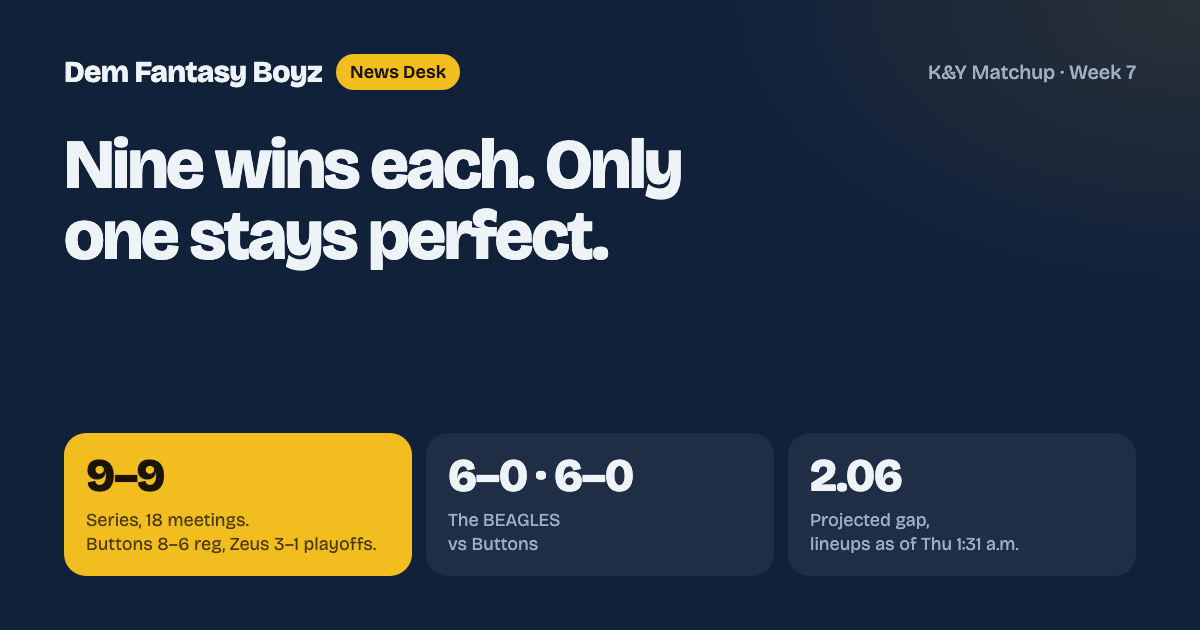
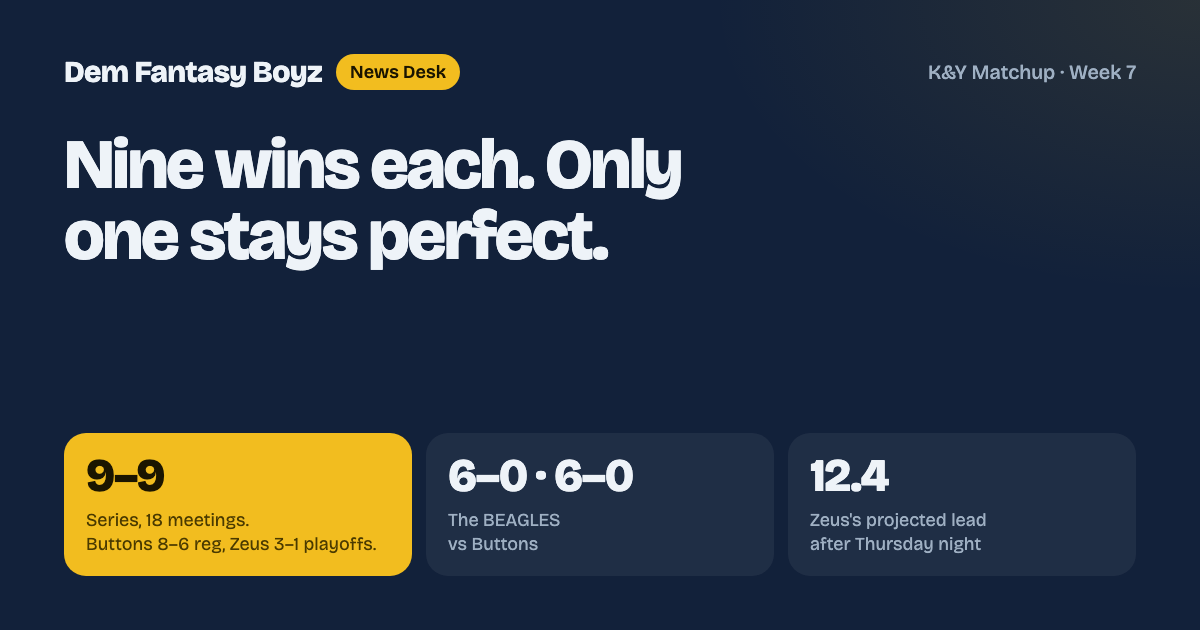
News desk: Week 7 K&Y, update for lineup changes and Thursday night

Changed region(s): [[0.6783, 0.8143, 0.8633, 0.8746], [0.6783, 0.7238, 0.7708, 0.7841]]

diff --git a/dfb/wk7-ky-matchup.html b/dfb/wk7-ky-matchup.html
@@ -5,16 +5,16 @@
 <meta name="viewport" content="width=device-width, initial-scale=1">
 <meta name="robots" content="noindex">
 <title>Nine Wins Each. Only One Stays Perfect. &mdash; Dem Fantasy Boyz</title>
-<meta name="description" content="K&amp;Y Matchup of the Week: The BEAGLES vs Benjamin's Buttons, both 6-0, 2.06 points apart as set. They have met 18 times and each has won nine.">
+<meta name="description" content="K&amp;Y Matchup of the Week: The BEAGLES vs Benjamin's Buttons, both 6-0. After Thursday night the projections favor Zeus by 12.4. They have met 18 times and each has won nine.">
 <meta property="og:type" content="article">
 <meta property="og:title" content="Nine Wins Each. Only One Stays Perfect.">
-<meta property="og:description" content="K&amp;Y Matchup of the Week: The BEAGLES vs Benjamin's Buttons, both 6-0, 2.06 points apart as set. They have met 18 times and each has won nine.">
+<meta property="og:description" content="K&amp;Y Matchup of the Week: The BEAGLES vs Benjamin's Buttons, both 6-0. After Thursday night the projections favor Zeus by 12.4. They have met 18 times and each has won nine.">
 <meta property="og:url" content="https://goonscrubbih.github.io/dfb/wk7-ky-matchup.html">
-<meta property="og:image" content="https://goonscrubbih.github.io/dfb/img/wk7-ky-matchup.png?v=1">
+<meta property="og:image" content="https://goonscrubbih.github.io/dfb/img/wk7-ky-matchup.png?v=2">
 <meta name="twitter:card" content="summary_large_image">
 <meta name="twitter:title" content="Nine Wins Each. Only One Stays Perfect.">
-<meta name="twitter:description" content="K&amp;Y Matchup of the Week: The BEAGLES vs Benjamin's Buttons, both 6-0, 2.06 points apart as set. They have met 18 times and each has won nine.">
-<meta name="twitter:image" content="https://goonscrubbih.github.io/dfb/img/wk7-ky-matchup.png?v=1">
+<meta name="twitter:description" content="K&amp;Y Matchup of the Week: The BEAGLES vs Benjamin's Buttons, both 6-0. After Thursday night the projections favor Zeus by 12.4. They have met 18 times and each has won nine.">
+<meta name="twitter:image" content="https://goonscrubbih.github.io/dfb/img/wk7-ky-matchup.png?v=2">
 <meta name="theme-color" content="#EDF1F5" media="(prefers-color-scheme: light)">
 <meta name="theme-color" content="#0E1622" media="(prefers-color-scheme: dark)">
 <link rel="preconnect" href="https://fonts.googleapis.com">
@@ -34,7 +34,7 @@
 <div class="hed">
   <span class="chip flag">K&amp;Y Matchup of the Week &middot; Week 7</span>
   <h1>Nine Wins Each. Only One Stays Perfect.</h1>
-  <p class="dek">The BEAGLES and Benjamin's Buttons are both 6&ndash;0, and the projections have them <em>2.06 points apart</em>. They have met 18 times since 2016. Each has won nine. Buttons owns the regular season. Zeus owns the playoffs.</p>
+  <p class="dek">The BEAGLES and Benjamin's Buttons are both 6&ndash;0, and after Thursday night the projections favor Zeus by <em>12.4 points</em>. They have met 18 times since 2016. Each has won nine. Buttons owns the regular season. Zeus owns the playoffs.</p>
   <div class="by"><b>Oct 22, 2026</b><span>The BEAGLES (6&ndash;0) vs Benjamin's Buttons (6&ndash;0)</span><span>Week 7 preview</span></div>
 </div>
 
@@ -44,9 +44,9 @@
 
 <div class="stats">
   <div class="stat flag"><b>9&ndash;9</b><span>all-time series, 18 meetings since 2016</span></div>
-  <div class="stat"><b>2.06</b><span>projected gap as set, 137.07&ndash;135.01</span></div>
+  <div class="stat"><b>12.4</b><span>Zeus's projected lead after Thursday night, 146.96&ndash;134.55. Buttons led by 2.06 before it.</span></div>
   <div class="stat"><b>3&ndash;1</b><span>Zeus in playoff meetings, including the 2017 final</span></div>
-  <div class="stat"><b>16 / 10</b><span>roster moves this season, Buttons and Zeus</span></div>
+  <div class="stat"><b>17 / 10</b><span>roster moves this season, Buttons and Zeus</span></div>
 </div>
 
 <h2>The fight card</h2>
@@ -55,21 +55,21 @@
     <thead><tr><th>Slot</th><th>The BEAGLES</th><th class="r">Proj</th><th>Buttons</th><th class="r">Proj</th></tr></thead>
     <tbody>
       <tr><td>QB</td><td>K. Cousins</td><td class="r">15.5</td><td>B. Young</td><td class="r">18.6</td></tr>
-      <tr><td>RB</td><td>C. McCaffrey</td><td class="r">21.1</td><td>J. Gibbs</td><td class="r">25.2</td></tr>
-      <tr><td>RB</td><td>J. Warren</td><td class="r">16.9</td><td>D. Swift</td><td class="r">15.6</td></tr>
-      <tr><td>WR</td><td>D. Smith</td><td class="r">13.7</td><td>M. Nabers</td><td class="r">13.9</td></tr>
-      <tr><td>WR</td><td>J. Coker</td><td class="r">15.7</td><td>G. Pickens</td><td class="r">11.7</td></tr>
-      <tr><td>TE</td><td>D. Goedert</td><td class="r">11.1</td><td>I. Likely</td><td class="r">12.0</td></tr>
-      <tr><td>FLEX</td><td>O. Gordon</td><td class="r">13.1</td><td>H. Fannin</td><td class="r">11.0</td></tr>
-      <tr><td>FLEX</td><td>R. Stevenson</td><td class="r">11.1</td><td>J. Jacobs</td><td class="r">11.8</td></tr>
+      <tr><td>RB</td><td>C. McCaffrey</td><td class="r">21.0</td><td>J. Gibbs</td><td class="r">25.5</td></tr>
+      <tr><td>RB</td><td>J. Warren</td><td class="r">16.9</td><td>D. Swift *</td><td class="r">19.0</td></tr>
+      <tr><td>WR</td><td>J. Coker</td><td class="r">15.7</td><td>M. Nabers</td><td class="r">13.7</td></tr>
+      <tr><td>WR</td><td>D. Smith (Q)</td><td class="r">14.3</td><td>G. Pickens (Q)</td><td class="r">11.7</td></tr>
+      <tr><td>TE</td><td>D. Goedert (Q)</td><td class="r">11.1</td><td>I. Likely</td><td class="r">11.9</td></tr>
+      <tr><td>FLEX</td><td>O. Gordon</td><td class="r">13.1</td><td>D. Douglas *</td><td class="r">5.3</td></tr>
+      <tr><td>FLEX</td><td>R. Stevenson *</td><td class="r">22.5</td><td>J. Jacobs</td><td class="r">11.8</td></tr>
       <tr><td>K</td><td>W. Reichard</td><td class="r">9.7</td><td>C. Boswell</td><td class="r">8.3</td></tr>
       <tr><td>DEF</td><td>Seattle</td><td class="r">7.2</td><td>Minnesota</td><td class="r">8.8</td></tr>
-      <tr><td class="team">Total</td><td></td><td class="r team">135.01</td><td></td><td class="r team">137.07</td></tr>
-      <tr><td><em>Bench</em></td><td><em>T. Warren (Q)</em></td><td class="r"><em>10.5</em></td><td><em>T. Pollard</em></td><td class="r"><em>12.0</em></td></tr>
+      <tr><td class="team">Total</td><td></td><td class="r team">146.96</td><td></td><td class="r team">134.55</td></tr>
+      <tr><td><em>Bench</em></td><td><em>J. Downs</em></td><td class="r"><em>9.3</em></td><td><em>T. Pollard</em></td><td class="r"><em>12.0</em></td></tr>
     </tbody>
   </table>
 </div>
-<p class="fcap">Lineups as set at 1:31 a.m. Thursday, Sleeper's Week 7 projections. Rows round to one decimal; totals don't. (Q) is questionable. Bench row is each team's best backup. Josh Allen (bye) and DJ Moore (out) sit on Zeus's bench at zero.</p>
+<p class="fcap">Lineups as set at 10:13 a.m. Friday, Sleeper's Week 7 projections. * Already played Thursday night: actual points. Rows round to one decimal; totals don't. (Q) is questionable. Bench row is each team's best healthy backup. Josh Allen (bye), DJ Moore (out) and Tyler Warren (out) sit on Zeus's bench at zero.</p>
 
 <h2>The backstory</h2>
 
@@ -98,14 +98,14 @@
 
 <p>Zeus is 6&ndash;0 with the second-most points in the league (867.7) and a 52&ndash;14 record against everyone. <strong>He has never won by fewer than 11 points.</strong> His six margins: 30.66, 11.24, 31.92, 17.12, 89.28 and 18.99, an average of 33. After Week 4's slow 121.62 he put up 173.00 on Tampa, then 132.40 on Iceman Williams.</p>
 
-<p>This week he does it with Kirk Cousins, whom he picked up Wednesday and renamed "Kirko Chainz." Josh Allen is on bye. Cousins projects 15.5 against Buttons's Bryce Young at 18.6, a 3.1-point hole at quarterback before anyone kicks off. DJ Moore is out.</p>
+<p>This week he does it with Kirk Cousins, whom he picked up Wednesday and renamed "Kirko Chainz." Josh Allen is on bye. Cousins projects 15.5 against Buttons's Bryce Young at 18.6, a 3.1-point hole at quarterback before anyone kicks off. DJ Moore and Tyler Warren are out.</p>
 
 <div class="pull">
   <p>"Might've drafted an RB2 in the first but drafted a RB1 in multiple other rounds muhahahahaah"</p>
-  <cite>Zeus, Oct 14. McCaffrey is projected 21.1 on Sunday.</cite>
+  <cite>Zeus, Oct 14. McCaffrey is projected 21.0 on Sunday.</cite>
 </div>
 
-<p>Zeus runs on his backs: McCaffrey (21.1), Warren (16.9), and Ollie Gordon and Rhamondre Stevenson in the flex. Stevenson, "RHammer," plays Thursday night, Patriots at Bears, opposite Buttons's D'Andre Swift. The one problem is the Eagles. Jalen Hurts is out for the season, DeVonta Smith and Dallas Goedert are in the lineup anyway, and both play Monday night against Dallas. Zeus, two weeks ago: "Missing basically the entire offense… Eagles might be cooked."</p>
+<p>Zeus runs on his backs: McCaffrey (21.0), Warren (16.9), Gordon (13.1) and Rhamondre Stevenson, "RHammer," who just went for 22.5 on Thursday night against Buttons's D'Andre Swift. On Oct 13 Zeus asked the chat to "put some respect on RHammer." At 9:47 Thursday night: "RHAMMER &#x1F528;" then "LFG." Friday morning: "No respect put on RHammer. Noted!" The one problem is the Eagles. Jalen Hurts is out for the season, and DeVonta Smith and Dallas Goedert are both questionable now, with both playing Monday night against Dallas. Zeus, two weeks ago: "Missing basically the entire offense&hellip; Eagles might be cooked."</p>
 
 <p>Zeus has history with quarterbacks. In the league's first season, Week 1 of 2013, he started Peyton Manning for seven touchdown passes against Tbunzz, who is still "dealing with the 6pt passing TD trauma." This week his quarterback is Kirk Cousins.</p>
 
@@ -113,9 +113,9 @@
 
 <p>Buttons is the other 6&ndash;0 team, with 849.0 points and a 44&ndash;22 all-play record, and he wins differently. <strong>Four of his six wins came by 10.22 or fewer, and one came by 0.08.</strong> His average margin is 18. In Week 4 he beat Goudariddance by 0.08, and Bryce Young's last kneel-down made the difference: "If Bryce would have kneeled one more time I would have lost." A week later he scored 197.36, 1.42 off the league record, and said: "There's like a wall before 200 in this league."</p>
 
-<p>His quarterback Sunday is that same Bryce Young, projected 18.6, and he has Gibbs back from the bye at 25.2, the highest projection on the field. Isaiah Likely, the subject of Buttons's "Likely to POP" chant, is at tight end. Josh Jacobs, a dead roster spot for most of the year, is in the flex at 11.8, in the same game as Gibbs. Buttons, Oct 17: "Just found out Jacob's is back &#x1F608;"</p>
+<p>His quarterback Sunday is that same Bryce Young, projected 18.6, and he has Gibbs back from the bye at 25.5, the highest projection on the field. Isaiah Likely, the subject of Buttons's "Likely to POP" chant, is at tight end. Josh Jacobs, a dead roster spot for most of the year, is in the flex at 11.8, in the same game as Gibbs. Buttons, Oct 17: "Just found out Jacob's is back &#x1F608;"</p>
 
-<p>He is also the league's waiver machine. Buttons has made 16 roster moves this season to Zeus's 10, and in September traffikhan did the math on him: "[Buttons] actually destroys everyone else in waivers. Over 1k points through waivers is nuts." Early Thursday he added D. Douglas and dropped M. Fields. He wins small and he wins constantly.</p>
+<p>He is also the league's waiver machine. Buttons has made 16 roster moves this season to Zeus's 10, and in September traffikhan did the math on him: "[Buttons] actually destroys everyone else in waivers. Over 1k points through waivers is nuts." Early Thursday he added D. Douglas and dropped M. Fields; Thursday afternoon he added R. Flournoy and dropped K. Bourne. Then he put Douglas in a flex spot instead of Harold Fannin, and Douglas, who plays for the Patriots, was in Thursday night's game. He scored 5.3. Fannin (11.0 projected) and Tony Pollard (12.0) are on the bench. George Pickens, his Monday-night receiver, is questionable. He wins small and he wins constantly.</p>
 
 <h2>From the group chat</h2>
 <div class="pull">
@@ -125,17 +125,19 @@
 <p><strong>Zeus, Monday night:</strong> "Two 6-0 teams face each other next week&hellip;"</p>
 <p><strong>Buttons, Wednesday:</strong> "Gibbs fresh off bye and Jacob's running off his frustrations in the same game &#x1F37F; and Likely likely to be a security blanket"</p>
 
+<h2>After Thursday night</h2>
+
+<p>Buttons led after the first game, barely. <strong>Swift scored 19.0 and Douglas 5.3, 24.3 for Buttons, against Stevenson's 22.5 for Zeus.</strong> That is a 1.8-point lead for Buttons, with eight players still to play for Buttons and nine for Zeus. Buttons used up a flex spot on Douglas's 5.3. Zeus's remaining nine project to 124.5, and Buttons's remaining eight project to 110.3.</p>
+
 <h2>The call</h2>
 
-<p>As set at 1:31 Thursday morning, it's <strong>137.07 to 135.01</strong>. That is a coin flip with a thumb on it. Buttons has the quarterback, Gibbs, Likely and the better defense. Zeus has the deeper running game, Coker, and the 2017 final.</p>
+<p>On Thursday morning this was <strong>137.07 to 135.01</strong> for Buttons, and the desk picked Buttons. Since then Zeus's Stevenson turned a projected 11.1 into 22.5 and Buttons put a 5.3 in a flex spot. Now it's <strong>146.96 to 134.55</strong> for Zeus.</p>
 
-<p>Thursday night comes first: Swift for Buttons against Stevenson for Zeus, projected 15.6 to 11.1, which is a 4.5-point head start for Buttons before the weekend. Then Monday night: Smith and Goedert for Zeus against Pickens for Buttons, 24.8 to 11.7. That is 13 points of projected cushion for Zeus on the last night. Zeus gets the last word.</p>
-
-<p><strong>The desk picks Buttons.</strong> The desk was wrong on Tampa in Week 4 and right in Weeks 5 and 6, and this one is closer than either. The edge is the quarterback gap and the bye: Zeus is playing without Josh Allen and Buttons is getting Gibbs back. Either way, one 6&ndash;0 team becomes 6&ndash;1 on Sunday, and the other is 7&ndash;0 with a very loud chat.</p>
+<p><strong>The desk changes its pick to the BEAGLES.</strong> The numbers swung about 14 points in a day, and the desk follows them. Zeus has a 12.4-point projected lead and has never won by fewer than 11 points this year. Buttons has Gibbs at 25.5 and the better quarterback and defense, but Pickens is questionable and he has only eight players left. Monday night is the last game: Smith and Goedert for Zeus against Pickens for Buttons, 25.4 projected to 11.7, though both Eagles are questionable. The desk was wrong on Tampa in Week 4 and right in Weeks 5 and 6. Either way, one 6&ndash;0 team becomes 6&ndash;1 on Sunday, and the other is 7&ndash;0 with a very loud chat.</p>
 
 <div class="method">
   <h2>How this was put together</h2>
-  <p>Projections are Sleeper's Week 7 PPR projections summed over each team's starting lineup as set at 1:31 a.m. ET Thursday, Oct 22. Injury tags are Sleeper's at the same time. The series covers every regular-season and playoff meeting between the two on ESPN (2016&ndash;2021) and Sleeper (2022&ndash;2025), 18 in all; playoff games are the championship bracket, including third-place games. Roster-move counts are completed 2026 transactions, trades included. The 2026 margins are Weeks 1&ndash;6 final scores. Quotes are from the league chat, verbatim; a real name inside a quote is replaced with the manager's nickname in brackets.</p>
+  <p>Projections are Sleeper's Week 7 PPR projections summed over each team's starting lineup as set at 10:13 a.m. ET Friday, Oct 23, with Thursday night's actual points for Stevenson, Swift and Douglas. The desk's first pick, on Thursday at 1:31 a.m., was Buttons, 137.07 to 135.01. Injury tags are Sleeper's at the same time. The series covers every regular-season and playoff meeting between the two on ESPN (2016&ndash;2021) and Sleeper (2022&ndash;2025), 18 in all; playoff games are the championship bracket, including third-place games. Roster-move counts are completed 2026 transactions, trades included. The 2026 margins are Weeks 1&ndash;6 final scores. Quotes are from the league chat, verbatim; a real name inside a quote is replaced with the manager's nickname in brackets.</p>
 </div>
 <!-- ============ CONTENT ENDS ============ -->
 

diff --git a/dfb/index.html b/dfb/index.html
@@ -10,7 +10,7 @@
 <meta property="og:title" content="Dem Fantasy Boyz — News Desk">
 <meta property="og:description" content="Weekly recaps, the Matchup of the Week, and live scores for the Dem Fantasy Boyz league.">
 <meta property="og:url" content="https://goonscrubbih.github.io/dfb/">
-<meta property="og:image" content="https://goonscrubbih.github.io/dfb/img/wk7-ky-matchup.png?v=1">
+<meta property="og:image" content="https://goonscrubbih.github.io/dfb/img/wk7-ky-matchup.png?v=2">
 <meta name="theme-color" content="#EDF1F5" media="(prefers-color-scheme: light)">
 <meta name="theme-color" content="#0E1622" media="(prefers-color-scheme: dark)">
 <link rel="preconnect" href="https://fonts.googleapis.com">
@@ -173,11 +173,11 @@ a.row:hover{transform:translateX(3px)}
 <!-- ============ LEAD STORY ============ -->
 <section class="rise" aria-label="Latest story">
   <a class="lead" href="wk7-ky-matchup.html">
-    <div class="art"><img src="img/wk7-ky-matchup.png?v=1" alt="" loading="eager" width="1200" height="630"></div>
+    <div class="art"><img src="img/wk7-ky-matchup.png?v=2" alt="" loading="eager" width="1200" height="630"></div>
     <div class="cap">
       <span class="chip flag">K&amp;Y Matchup &middot; Week 7</span>
       <h3>Nine Wins Each. Only One Stays Perfect.</h3>
-      <p>The BEAGLES vs Benjamin's Buttons, both 6&ndash;0, 2.06 points apart as set. They have met 18 times and split them nine apiece: Buttons owns the regular season, Zeus owns the playoffs.</p>
+      <p>The BEAGLES vs Benjamin's Buttons, both 6&ndash;0. They have met 18 times and split them nine apiece, and after Thursday night the projections favor Zeus by 12.4. The desk changed its pick.</p>
       <span class="go">Read the preview <i>&rarr;</i></span>
       <span class="date">Oct 22 &middot; Week 7 preview</span>
     </div>
